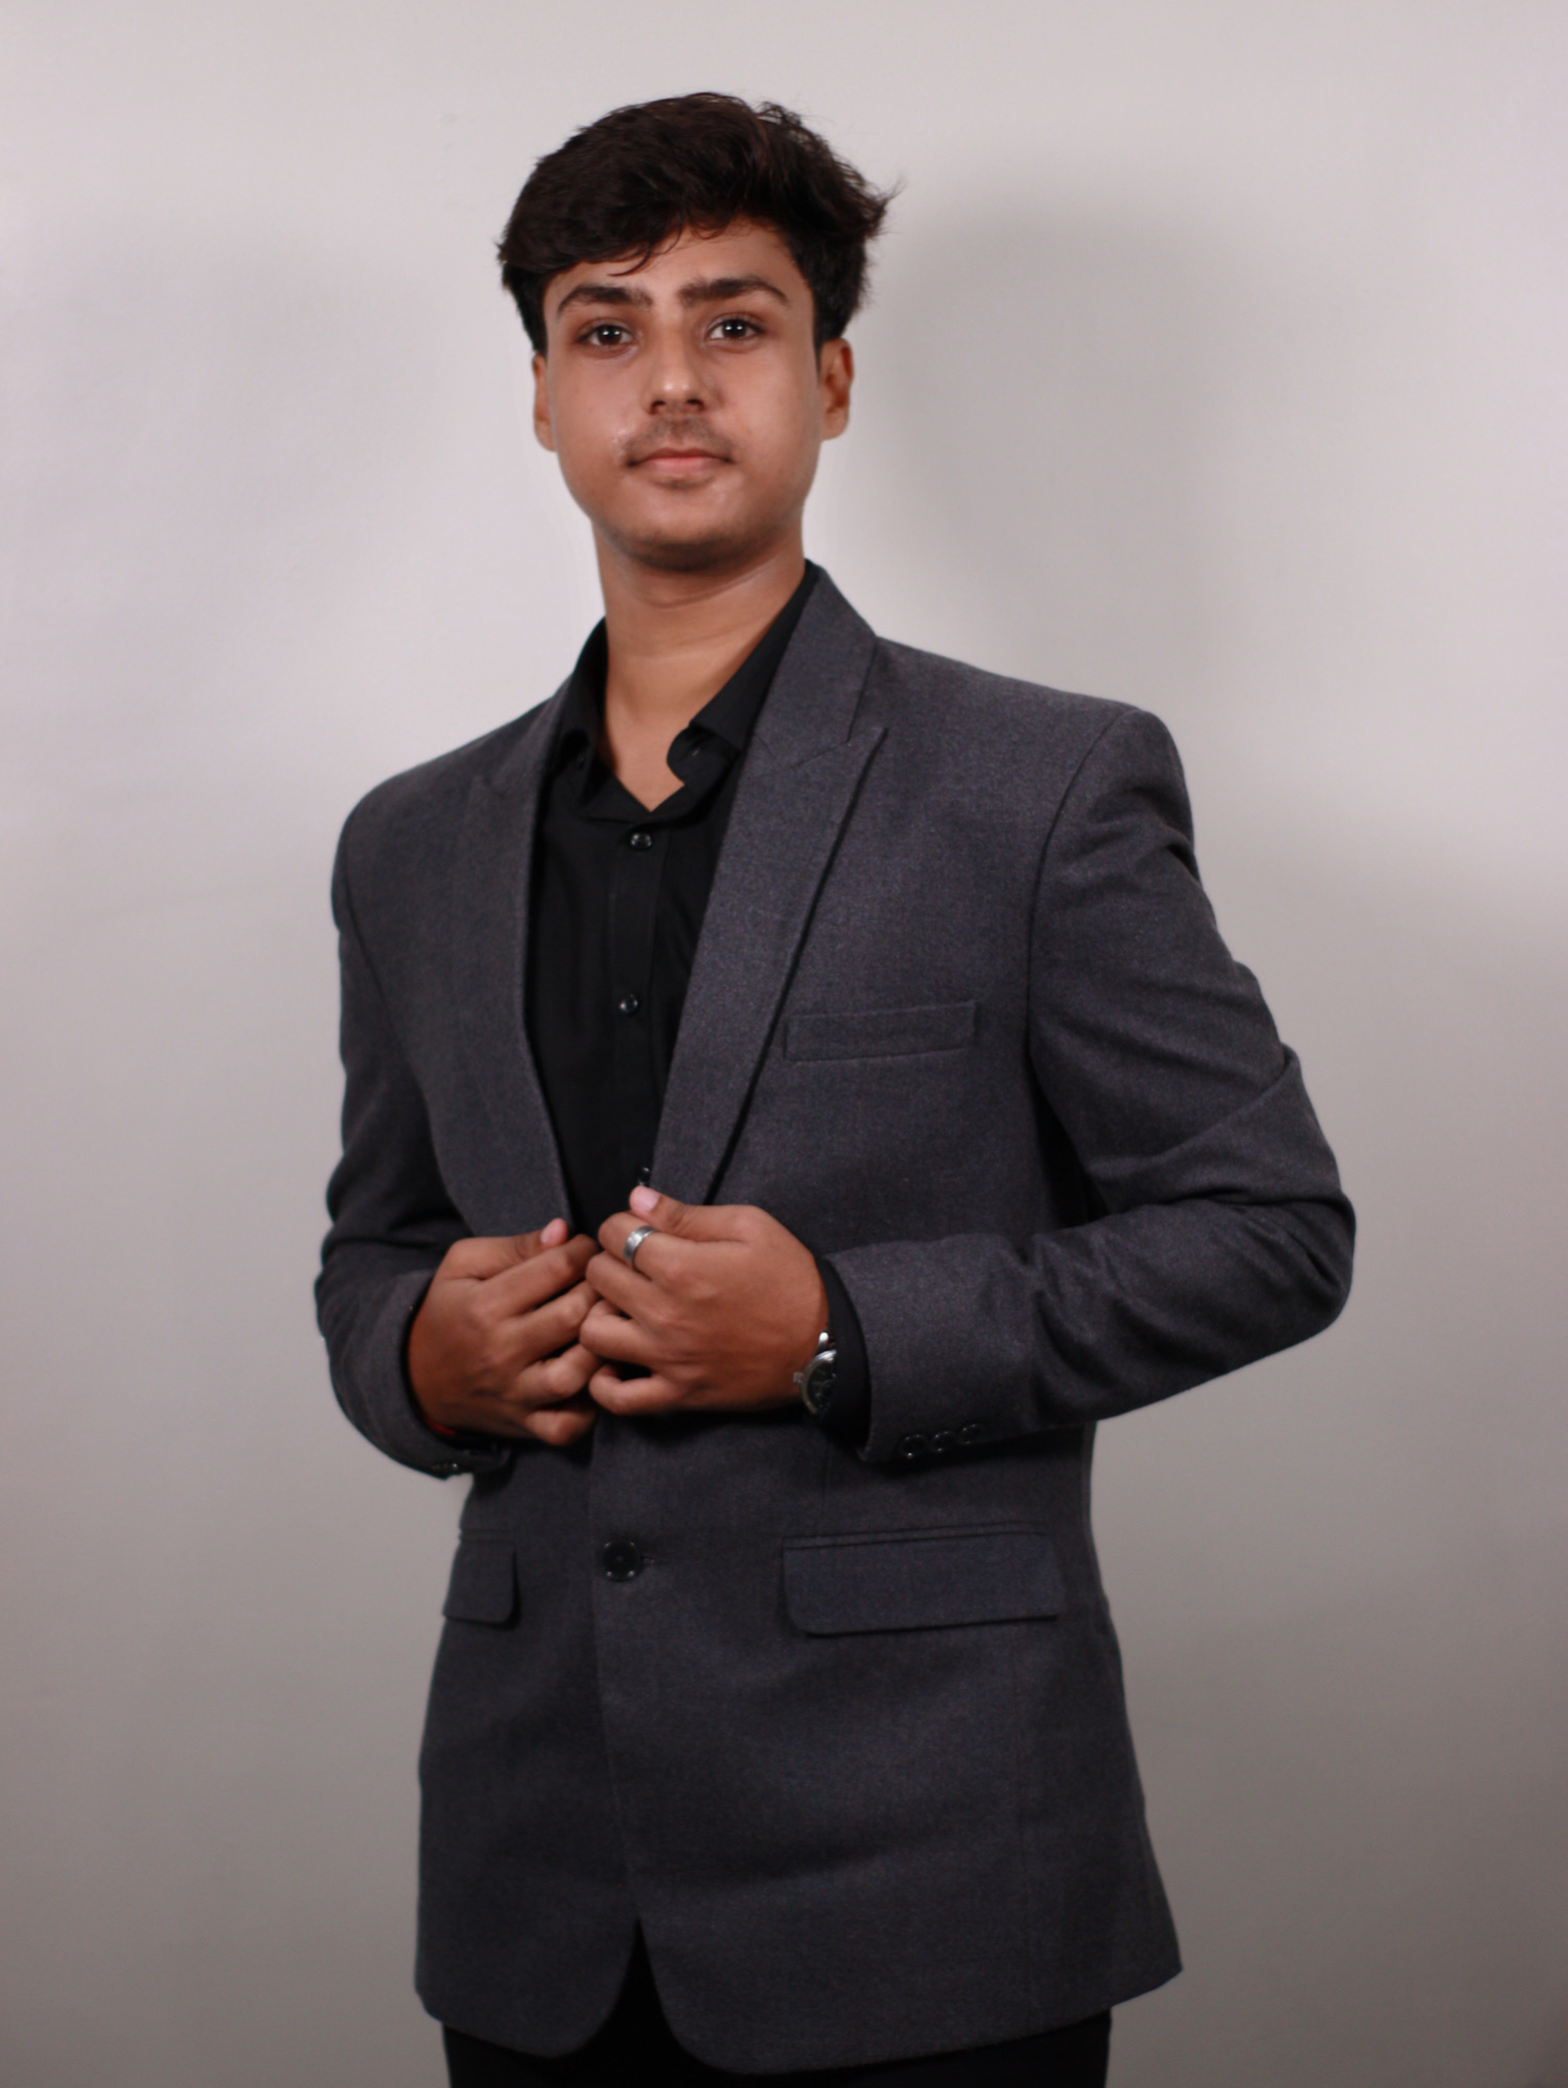
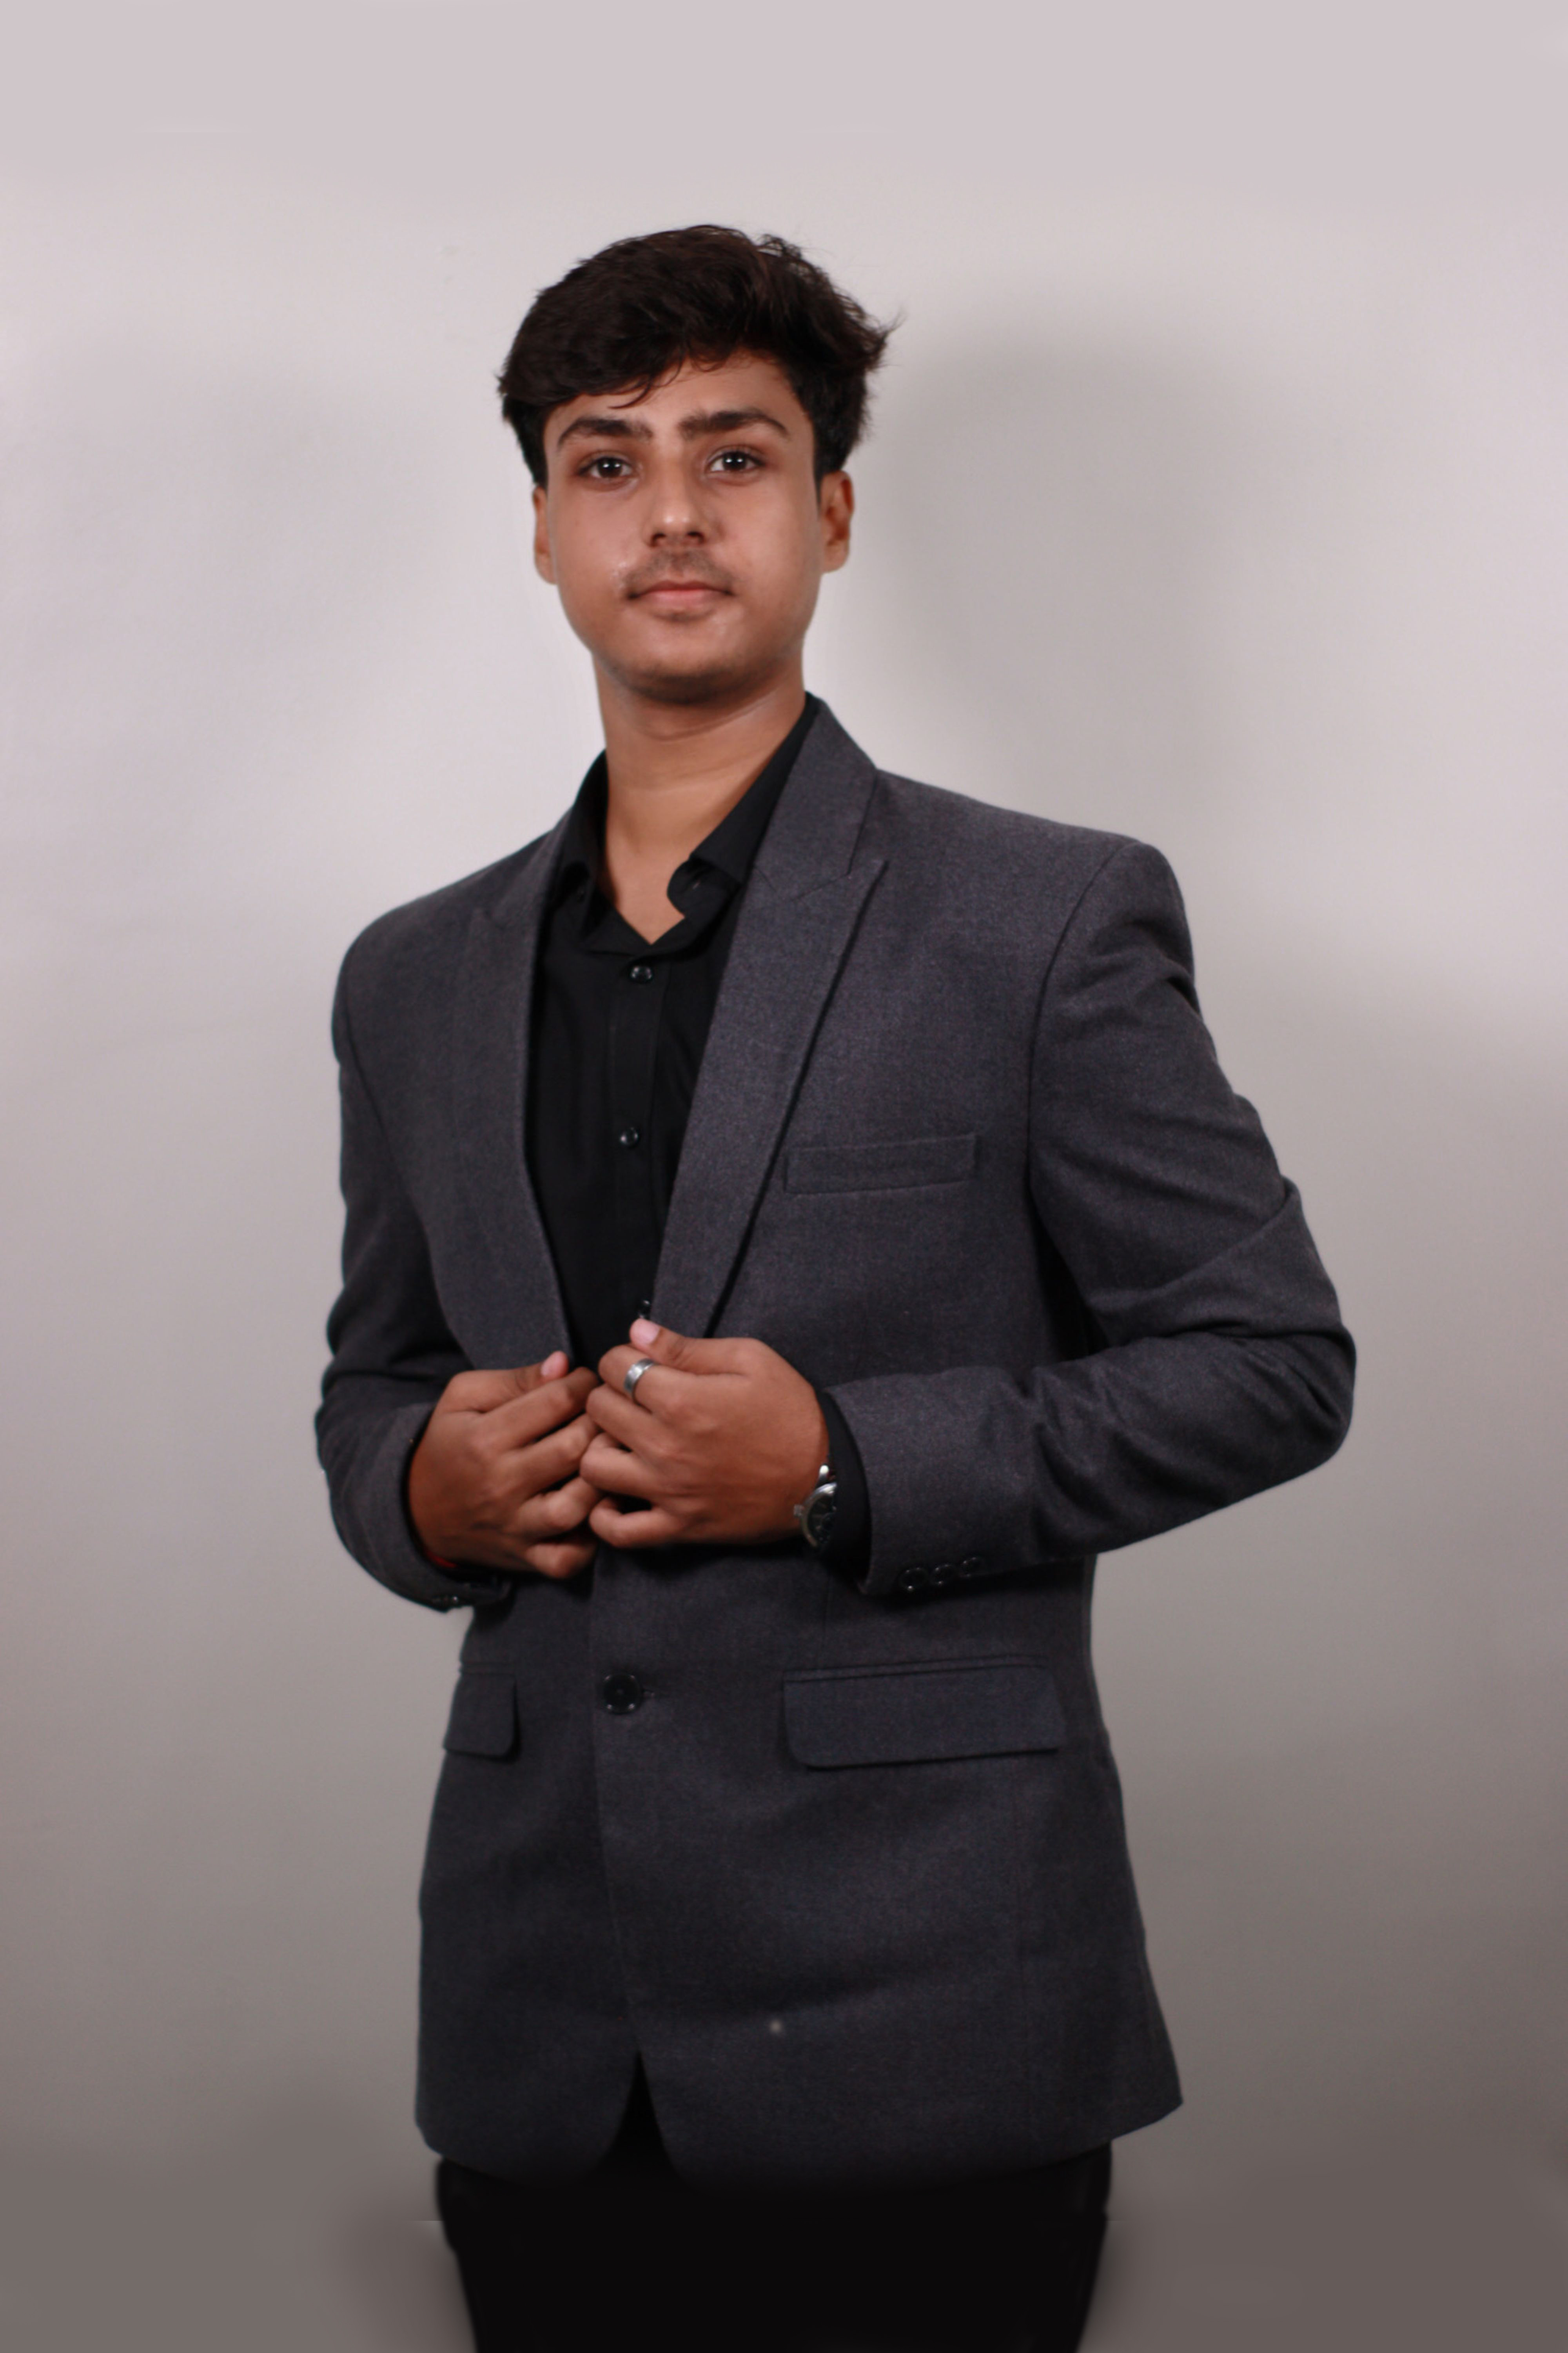
modified teams & E-summit page

diff --git a/components/team-section.tsx b/components/team-section.tsx
@@ -8,7 +8,7 @@ import Image from 'next/image'
 const teamMembers = [
   { name: "Niharika Ahuja", role: "President", image: "/core-images/niharika.jpg", instagram: "https://www.instagram.com/niharikaahujaa/?utm_source=ig_web_button_share_sheet", linkedin: "https://www.linkedin.com/in/niharika-ahuja-6bb42725b/" },
   { name: "Aryan Masali", role: "Vice President", image: "/core-images/aryan.jpg", instagram: "https://www.instagram.com/aryanmasali_3108/?utm_source=ig_web_button_share_sheet", linkedin: "https://www.linkedin.com/in/aryan-masali-13b823254/" },
-  { name: "Pushkar Patil", role: "General Secretary", image: "/core-images/pushkar.jpg", instagram: "https://www.instagram.com/pushkarpatil._/?utm_source=ig_web_button_share_sheet", linkedin: "https://www.linkedin.com/in/patil-pushkar/" },
+  { name: "Pushkar Patil", role: "General Secretary", image: "/core-images/pushkar.JPG", instagram: "https://www.instagram.com/pushkarpatil._/?utm_source=ig_web_button_share_sheet", linkedin: "https://www.linkedin.com/in/patil-pushkar/" },
   { name: "Niral Pillewan", role: "Chief Execution Officer", image: "/core-images/niral.jpg", instagram: "https://www.instagram.com/niralpillewan?utm_source=ig_web_button_share_sheet&igsh=ZDNlZDc0MzIxNw==", linkedin: "" },
   { name: "Aryan Joshi", role: "Chief Event Organizer", image: "/core-images/aryan_joshi.jpg", instagram: "https://www.instagram.com/aryxnjoshi/?utm_source=ig_web_button_share_sheet", linkedin: "" },
   { name: "Mihir Agashe", role: "Chief Marketing Officer", image: "/core-images/mihir.jpg", instagram: "https://www.instagram.com/comm3mihir?utm_source=ig_web_button_share_sheet&igsh=ZDNlZDc0MzIxNw==", linkedin: "https://www.linkedin.com/in/mihir-agashe-92597b249/" },

diff --git a/components/contact-section.tsx b/components/contact-section.tsx
@@ -29,14 +29,15 @@ const ContactSection = () => {
         <h2 className="text-4xl font-bold text-center mb-12 text-white">Contact Us</h2>
         <div className="grid grid-cols-1 md:grid-cols-2 gap-6">
           <div className="rounded-lg overflow-hidden">
-            <iframe
-              src="https://www.google.com/maps/embed?pb=!1m18!1m12!1m3!1d3339.2980279436183!2d73.0234706752046!3d19.04427358215379!2m3!1f0!2f0!3f0!3m2!1i1024!2i768!4f13.1!3m3!1m2!1s0x3be7c3b9947111f3%3A0x17a86217f929397!2sRamrao%20Adik%20Institute%20of%20Technology!5e1!3m2!1sen!2sin!4v1726145402660!5m2!1sen!2sin"
-              width="100%"
-              height="500"
+            <iframe 
+              src="https://www.google.com/maps/embed?pb=!1m18!1m12!1m3!1d4434.385185155991!2d73.02297847577358!3d19.044504402959447!2m3!1f0!2f0!3f0!3m2!1i1024!2i768!4f13.1!3m3!1m2!1s0x3be7c3db00160053%3A0x95e9ca007676b993!2sDr.%20D%20Y%20Patil&#39;s%20Ramrao%20Adik%20Institute%20Of%20Technology!5e1!3m2!1sen!2sin!4v1742497169368!5m2!1sen!2sin" 
+              width="600" 
+              height="450" 
               style={{ border: 0 }}
-              allowFullScreen
-              loading="lazy"
-            ></iframe>
+              allowFullScreen 
+              loading="lazy" 
+              referrerPolicy="no-referrer-when-downgrade"
+            />
           </div>
           <motion.div
             className="bg-zinc-900 p-6 rounded-lg shadow-lg"
